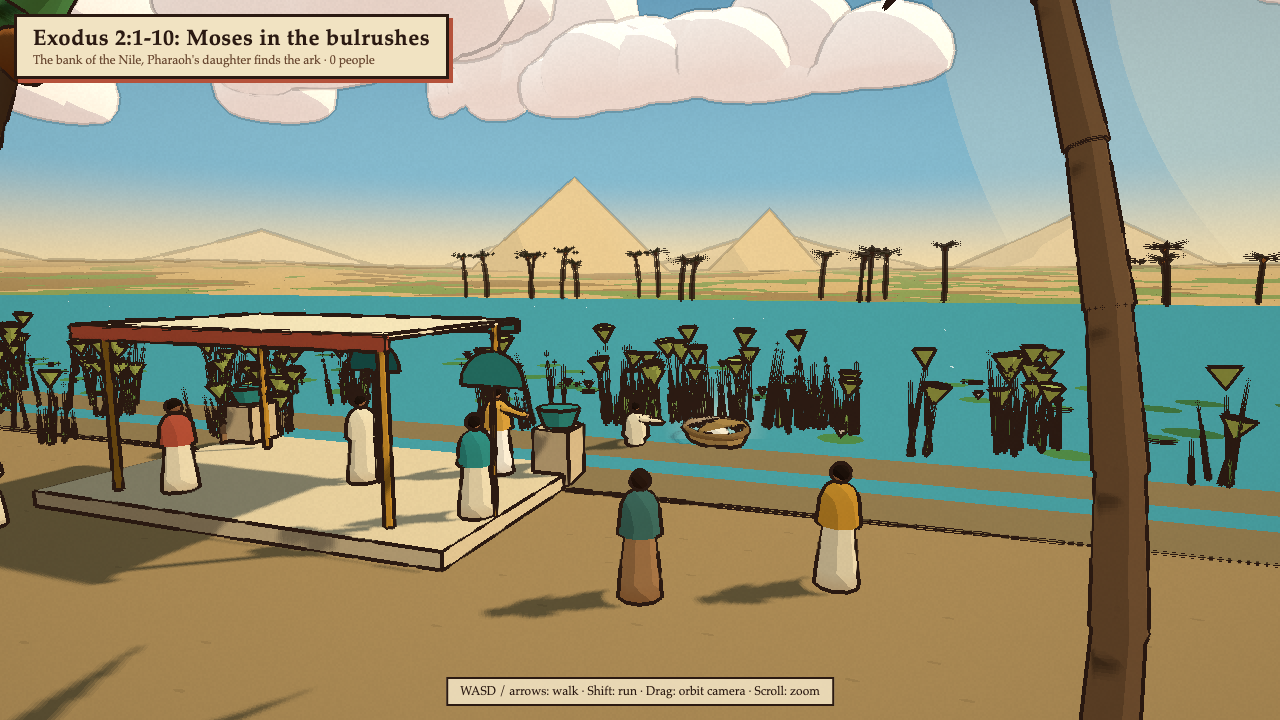
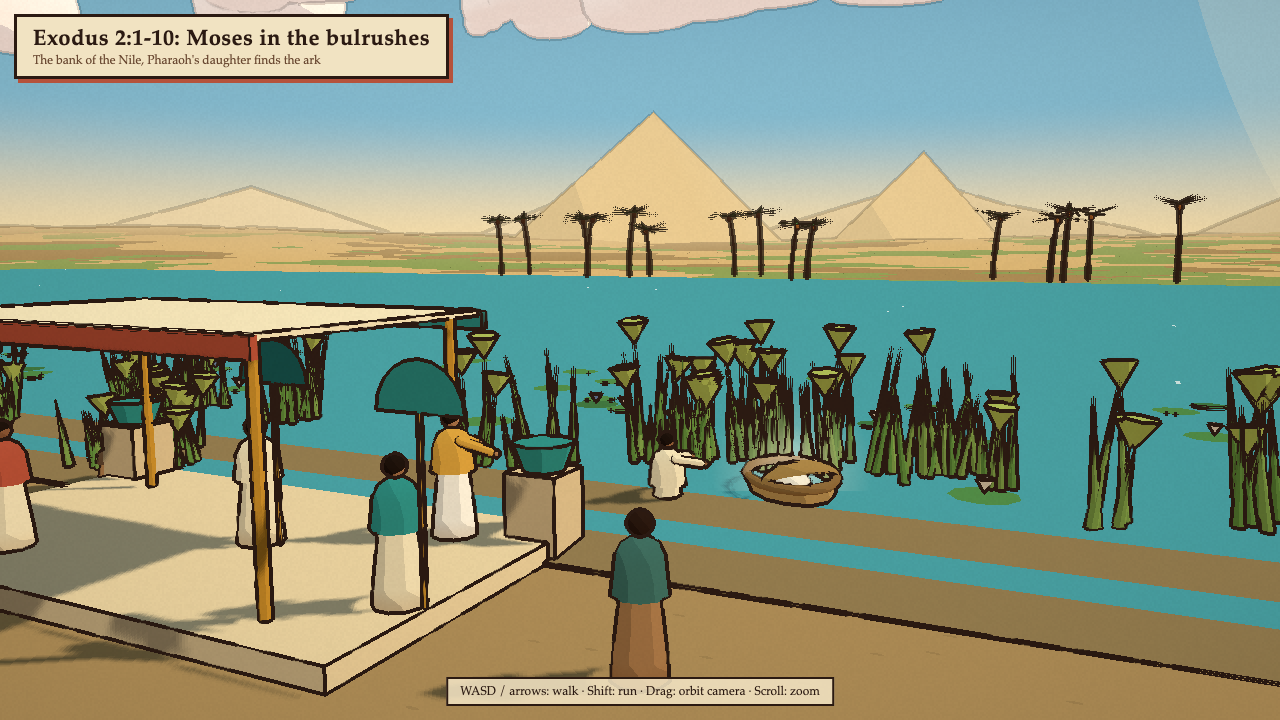
feat: polish toon scenes ot-13 to ot-18

diff --git a/styles/toon/scenes/ot-13.js b/styles/toon/scenes/ot-13.js
@@ -3,9 +3,9 @@
 import { Batch, DAY_STYLE, addSun, ball, box, camel, cyl, flock, frameAt, makeRng, person, rock, xf } from './lib/ot-13-kit.js';
 
 const PIT = [0, 0];
-const JOSEPH = [1.6, -1.4];
-const JUDAH = [-1.4, -3.4];
-const TRADER = [4.4, -4.2];
+const JOSEPH = [2.5, 1.5];
+const JUDAH = [0.4, -2.9];
+const TRADER = [5.6, -0.9];
 
 const BROTHER_ROBES = ['#a87b4f', '#8c5a3c', '#7a6a52', '#c8a97a', '#6f8a6a', '#9c6b4e', '#b5916a', '#5e4632', '#bfa27a', '#7d5a3c'];
 const BROTHER_MANTLES = ['#5e4632', '#c8912e', '#3e6e66', '#8c5a3c', '#a64b35', '#d9c7a3', '#6b5a4a', '#4f7f80', '#b5523b', '#7a6a52'];
@@ -27,7 +27,12 @@ function custom(ctx) {
   ctx.exclude({ kind: 'circle', x: PIT[0], z: PIT[1], r: 2.4 });
 
   // A rope drawn up over the rim to Joseph's hands.
-  b.add('#c9b07a', cyl(0.03, 0.03, 2.2, [0.8, py + 0.75, -0.7], [0.5, 0.85, 0.9], 4), { cast: false });
+  const ropeFrom = new THREE.Vector3(0.7, py + 0.2, 0.5);
+  const ropeTo = new THREE.Vector3(JOSEPH[0] + 0.25, ctx.terrainHeight(...JOSEPH) + 1.0, JOSEPH[1] - 0.15);
+  const rope = new THREE.CylinderGeometry(0.035, 0.035, ropeFrom.distanceTo(ropeTo), 4);
+  rope.applyQuaternion(new THREE.Quaternion().setFromUnitVectors(new THREE.Vector3(0, 1, 0), ropeTo.clone().sub(ropeFrom).normalize()));
+  rope.translate(...ropeFrom.clone().add(ropeTo).multiplyScalar(0.5).toArray());
+  b.add('#c9b07a', rope, { cast: false });
 
   // The coat of many colours, stripped and lying on the ground.
   const cx = -2.6, cz = 1.4, cy = ctx.terrainHeight(cx, cz);
@@ -37,7 +42,7 @@ function custom(ctx) {
   b.add('#2f8f8a', box(0.5, 0.05, 1.2, [1.0, 0.05, 0], [0, -0.4, 0]), { frame: frameAt(cx, cy, cz, 0.5), cast: false });
 
   // The twenty pieces of silver.
-  const sx = 3.2, sz = -3.1, sy = ctx.terrainHeight(sx, sz);
+  const sx = 4.3, sz = 0.4, sy = ctx.terrainHeight(sx, sz);
   b.add('#6b4a33', box(0.5, 0.35, 0.4, [sx, sy + 0.18, sz]));
   for (let i = 0; i < 9; i++) b.add('#e6e2d6', cyl(0.07, 0.07, 0.02, [sx + (rng() - 0.5) * 0.5, sy + 0.38 + i * 0.012, sz + (rng() - 0.5) * 0.3], [0, 0, 0], 8), { emissive: '#3a3a3a' });
 
@@ -51,14 +56,14 @@ function custom(ctx) {
 
   // The Ishmeelite merchants.
   person(ctx, { pos: TRADER, face: JUDAH, scale: 1.04, colors: { robe: '#2e3a5c', mantle: '#efe3c2', skin: '#8a5a3b', hair: '#efe3c2', sash: '#b5523b', arms: [0.3, 1.0] } });
-  person(ctx, { pos: [6.2, -2.6], face: JOSEPH, colors: { robe: '#efe3c2', mantle: '#2e3a5c', skin: '#7a4e33', hair: '#e6d8b8', sash: '#c8912e' } });
-  person(ctx, { pos: [5.6, -6.4], face: JOSEPH, colors: { robe: '#5a3a5c', mantle: '#d9c7a3', skin: '#8a5a3b', hair: '#d9c7a3', sash: '#2f8f8a' } });
+  person(ctx, { pos: [7.4, 1.0], face: JOSEPH, colors: { robe: '#efe3c2', mantle: '#2e3a5c', skin: '#7a4e33', hair: '#e6d8b8', sash: '#c8912e' } });
+  person(ctx, { pos: [8.6, -2.4], face: JOSEPH, colors: { robe: '#5a3a5c', mantle: '#d9c7a3', skin: '#8a5a3b', hair: '#d9c7a3', sash: '#2f8f8a' } });
 
   // The caravan of camels on the road to Egypt, with spicery, balm and myrrh.
   const road = (t) => [26 - t * 3.1, -16 + t * 1.5];
   for (let i = 0; i < 9; i++) {
     const [x, z] = road(i);
-    if (Math.hypot(x - TRADER[0], z - TRADER[1]) < 4) continue;
+    if (Math.hypot(x - TRADER[0], z - TRADER[1]) < 6) continue;
     camel(b, ctx, { pos: [x, z], rot: Math.atan2(-3.1, 1.5), color: ['#c49a62', '#b5895a', '#d1a873'][i % 3], couched: i === 3 || i === 4, load: ['#b5523b', '#2f8f8a', '#c8912e', '#6b2f4a'][i % 4] });
     if (i % 2 === 0) person(ctx, { pos: [x + 1.6, z + 0.6], face: road(i + 3), colors: { robe: ['#efe3c2', '#2e3a5c', '#5a3a5c'][i % 3], mantle: '#d9c7a3', skin: '#8a5a3b', hair: '#efe3c2', sash: '#b5523b' } });
   }
@@ -116,8 +121,9 @@ export default {
   custom,
   clouds: { layers: [{ count: 30, distance: [350, 800], height: [90, 180], size: [40, 80], color: '#fff6e4', shade: '#7a7a92' }] },
   player: {
-    start: [0.5, 9],
-    lookAt: [0, -2],
+    start: [1.6, 5.6],
+    lookAt: [5.8, -0.6],
+    fov: 40,
     colors: { robe: '#a87b4f', mantle: '#3e6e66', skin: '#a8724a', hair: '#2b1a12', sash: '#c8912e' },
   },
 };

diff --git a/styles/toon/scenes/ot-15.js b/styles/toon/scenes/ot-15.js
@@ -98,7 +98,7 @@ function custom(ctx) {
   // Pharaoh's daughter and her maidens walking by the river's side.
   person(ctx, { pos: PRINCESS, y: ly + 0.3, face: BASKET, scale: 1.04, colors: { robe: '#fbf7ee', mantle: '#d9a441', skin: '#b5825a', hair: '#1f140e', sash: '#2f8f8a', arms: [0.35, 1.2] } });
   person(ctx, { pos: MAID, y: WATER_Y - 0.6, face: BASKET, colors: { robe: '#efe3c2', mantle: '#efe3c2', skin: '#9c6a45', hair: '#1f140e', sash: '#b5523b', arms: [0.2, 1.4] } });
-  const maids = [[1.4, -5.6], [4.6, -4.6], [-1.5, -4.0], [10.5, -4.4], [-3.6, -2.0]];
+  const maids = [[1.4, -5.6], [4.6, -4.6], [-1.5, -4.0], [12.5, -1.0], [-3.6, -2.0]];
   maids.forEach((p, i) => person(ctx, { pos: p, face: i < 2 ? BASKET : PRINCESS, colors: { robe: '#efe3c2', mantle: ['#efe3c2', '#2f8f8a', '#b5523b', '#c8912e', '#efe3c2'][i], skin: ['#9c6a45', '#a87650', '#8a5a3b'][i % 3], hair: '#1f140e', sash: '#c8912e' } }));
   for (const [x, z] of [[1.4, -5.6], [4.6, -4.6]]) {
     b.add('#c8912e', cyl(0.03, 0.03, 2.2, [x + 0.35, ly + 1.4, z], [0, 0, 0], 5));
@@ -115,7 +115,7 @@ function custom(ctx) {
     if (Math.abs(x) < 10 && z < 18) continue;
     palm(b, ctx, { pos: [x, z], height: 7 + rng() * 4, lean: 0.1 + rng() * 0.25, dir: rng() * 6, seed: i + 30 });
   }
-  for (const s of [-1, 1]) palm(b, ctx, { pos: [s * 8 + 5, -1.5], height: 8.5, lean: 0.25, dir: s > 0 ? 2.5 : 0.6, seed: s + 60 });
+  for (const s of [-1, 1]) palm(b, ctx, { pos: [s * 10 + 4, 0.5], height: 8.5, lean: 0.25, dir: s > 0 ? 2.5 : 0.6, seed: s + 60 });
   const px = 0, pz = 40, py = ctx.terrainHeight(px, pz) - 0.2;
   for (const s of [-1, 1]) {
     b.add('#e3cfa6', xf(new THREE.CylinderGeometry(4.2, 5.5, 14, 4), { pos: [px + s * 9, py + 7, pz], rot: [0, Math.PI / 4, 0], scale: [1.4, 1, 0.6] }));
@@ -158,8 +158,9 @@ export default {
   clouds: { layers: [{ count: 24, distance: [400, 800], height: [110, 200], size: [40, 80], color: '#fff6e4', shade: '#8a8aa0' }] },
   light: { glows: [{ at: BASKET, lift: 0.6, size: 2.6, color: '#fff3d0', opacity: 0.35 }] },
   player: {
-    start: [8, -3.2],
-    lookAt: [5.5, -10.5],
+    start: [7.6, -4.6],
+    lookAt: [4.6, -11],
+    fov: 42,
     colors: { robe: '#a87b4f', mantle: '#3e6e66', skin: '#a8724a', hair: '#2b1a12', sash: '#c8912e' },
   },
 };

diff --git a/styles/toon/scenes/ot-16.js b/styles/toon/scenes/ot-16.js
@@ -3,7 +3,7 @@
 import { Batch, DAY_STYLE, ball, box, cyl, flames, flock, glow, makeRng, person, rock, xf } from './lib/ot-13-kit.js';
 
 const BUSH = [0, -9];
-const MOSES = [0.4, -4.6];
+const MOSES = [-2.6, -5.6];
 const PEAK = [10, -300];
 
 function custom(ctx) {
@@ -48,12 +48,12 @@ function custom(ctx) {
     fl.push({ pos: [BUSH[0] + Math.sin(a) * r, by + 0.6 + rng() * 0.9, BUSH[1] + Math.cos(a) * r], h: 0.6 + rng() * 1.3, w: 0.7 + rng() * 0.6, light: i === 0 });
   }
   fl.push({ pos: [BUSH[0], by + 1.1, BUSH[1]], h: 2.2, w: 1.6 });
-  flames(ctx, fl, { outer: '#ff8a2c', inner: '#ffe08a', light: { color: '#ffc870', intensity: 40, distance: 30 } });
-  glow(ctx, { pos: [BUSH[0], by + 1.6, BUSH[1]], size: 9, color: '#ffd890', opacity: 0.75, pulse: 0.06 });
-  glow(ctx, { pos: [BUSH[0], by + 1.8, BUSH[1]], size: 22, color: '#ffb35a', opacity: 0.3, pulse: 0.04 });
+  flames(ctx, fl, { outer: '#ff8a2c', inner: '#ffe08a', light: { color: '#ffc870', intensity: 22, distance: 24 } });
+  glow(ctx, { pos: [BUSH[0], by + 1.6, BUSH[1]], size: 6.5, color: '#ffd890', opacity: 0.55, pulse: 0.06 });
+  glow(ctx, { pos: [BUSH[0], by + 1.8, BUSH[1]], size: 15, color: '#ffb35a', opacity: 0.18, pulse: 0.04 });
 
   // Moses, his shoes put off, kneeling on holy ground with his staff laid down.
-  person(ctx, { pos: MOSES, face: BUSH, kneel: true, colors: { robe: '#a87b4f', mantle: '#5e4632', skin: '#a8724a', hair: '#3a2418', sash: '#c8912e', arms: [0.25, 1.1] } });
+  person(ctx, { pos: MOSES, face: BUSH, kneel: true, scale: 1.3, colors: { robe: '#8c5a3c', mantle: '#e3d6b8', skin: '#a8724a', hair: '#3a2418', sash: '#c8912e', arms: [0.25, 1.1] } });
   const my = ctx.terrainHeight(...MOSES);
   b.add('#6b4a33', cyl(0.045, 0.05, 2.3, [MOSES[0] + 1.1, my + 0.06, MOSES[1] + 0.5], [Math.PI / 2, 0.5, 0], 6));
   for (const s of [-1, 1]) {
@@ -103,8 +103,9 @@ export default {
   custom,
   clouds: { layers: [{ count: 30, distance: [350, 800], height: [80, 180], size: [40, 90], color: '#f6c8a0', shade: '#5a4a6a' }] },
   player: {
-    start: [1.8, 2],
-    lookAt: BUSH,
+    start: [1.8, -1.4],
+    lookAt: [-1.6, -8.6],
+    fov: 42,
     colors: { robe: '#8c5a3c', mantle: '#3e6e66', skin: '#a8724a', hair: '#2b1a12', sash: '#c8912e' },
   },
 };

diff --git a/styles/toon/scenes/ot-14.js b/styles/toon/scenes/ot-14.js
@@ -113,11 +113,11 @@ function custom(ctx) {
   }
 
   // Joseph in Egyptian linen, arms open to his brothers.
-  person(ctx, { pos: JOSEPH, face: BENJAMIN, scale: 1.06, colors: { robe: '#fbf7ee', mantle: '#d9a441', skin: '#b5825a', hair: '#2e4f8a', sash: '#c8912e', arms: [0.7, 0.9] } });
+  person(ctx, { pos: JOSEPH, face: BENJAMIN, scale: 1.12, colors: { robe: '#fbf7ee', mantle: '#d9a441', skin: '#b5825a', hair: '#2e4f8a', sash: '#c8912e', arms: [0.7, 0.9] } });
   person(ctx, { pos: BENJAMIN, face: JOSEPH, scale: 0.97, colors: { robe: '#d9c7a3', mantle: '#4f7f80', skin: '#b5825a', hair: '#3a2418', sash: '#c8912e', arms: [0.25, 0.8] } });
 
   // Ten brothers, stunned and troubled. Some fall back, some bow.
-  const spots = [[-2.6, -12.4], [2.4, -12.6], [-4.4, -11.2], [4.4, -11.0], [-2.2, -9.8], [1.8, -10.0], [-5.6, -9.0], [3.8, -8.6], [-3.8, -8.0], [5.8, -12.6]];
+  const spots = [[-2.6, -12.9], [2.6, -12.9], [-3.5, -14.6], [3.5, -14.6], [-3.1, -11.0], [3.1, -11.0], [-4.6, -12.6], [4.6, -12.6], [-5.3, -14.6], [5.3, -14.6]];
   spots.forEach((p, i) => person(ctx, {
     pos: p,
     face: [JOSEPH[0] + (rng() - 0.5) * 2, JOSEPH[1]],
@@ -166,8 +166,9 @@ export default {
     glows: [{ at: JOSEPH, lift: 1.4, size: 4, color: '#fff3d0', opacity: 0.25 }],
   },
   player: {
-    start: [0.5, -5],
-    lookAt: JOSEPH,
+    start: [0.9, -8.6],
+    lookAt: [-0.3, -15.5],
+    fov: 42,
     colors: { robe: '#a87b4f', mantle: '#3e6e66', skin: '#a8724a', hair: '#2b1a12', sash: '#c8912e' },
   },
 };

diff --git a/styles/toon/scenes/ot-18.js b/styles/toon/scenes/ot-18.js
@@ -6,7 +6,7 @@ import { Batch, DAY_STYLE, PALETTE, ball, box, cyl, flames, flock, glow, makeRng
 const HALF = 16;
 const WALL_H = 20;
 const PILLAR = [0, 62];
-const MOSES = [-3, -44];
+const MOSES = [-3.2, -43.2];
 
 function waterTexture(THREE) {
   const c = document.createElement('canvas');
@@ -129,7 +129,7 @@ function custom(ctx) {
   }
 
   // Moses at the head of the people, rod lifted over the sea.
-  person(ctx, { pos: MOSES, face: [8, 0], scale: 1.05, colors: { robe: '#a87b4f', mantle: '#5e4632', skin: '#a8724a', hair: '#e6d8b8', sash: '#c8912e', arms: [0.4, 2.3] } });
+  person(ctx, { pos: MOSES, face: [MOSES[0] + 1.5, MOSES[1] - 20], scale: 1.1, colors: { robe: '#8c5a3c', mantle: '#e3d6b8', skin: '#a8724a', hair: '#e6d8b8', sash: '#c8912e', arms: [0.4, 2.3] } });
   const my = ctx.terrainHeight(...MOSES);
   b.add('#6b4a33', cyl(0.045, 0.05, 2.4, [MOSES[0] + 0.15, my + 2.7, MOSES[1] - 0.25], [0.1, 0, -0.2], 6));
   ctx.exclude({ kind: 'circle', x: MOSES[0], z: MOSES[1], r: 3 });
@@ -178,8 +178,9 @@ export default {
     ],
   },
   player: {
-    start: [2, -46],
-    lookAt: [0, 40],
+    start: [1.6, -47.5],
+    lookAt: [-1.2, 40],
+    fov: 48,
     colors: { robe: '#a87b4f', mantle: '#3e6e66', skin: '#a8724a', hair: '#2b1a12', sash: '#c8912e' },
   },
 };

diff --git a/styles/toon/scenes/lib/ot-13-kit.js b/styles/toon/scenes/lib/ot-13-kit.js
@@ -512,7 +512,7 @@ export function reeds(b, ctx, { points, height = [1.6, 2.8], color = '#5f8a3e', 
       const h = height[0] + rng() * (height[1] - height[0]);
       const px = x + (rng() - 0.5) * 0.9, pz = z + (rng() - 0.5) * 0.9;
       const tilt = [(rng() - 0.5) * 0.35, 0, (rng() - 0.5) * 0.35];
-      b.add(rng() < 0.5 ? color : dark, xf(new THREE.ConeGeometry(0.05, h, 4).translate(0, h / 2, 0), { pos: [px, by - 0.1, pz], rot: tilt }), { cast: false });
+      b.add(rng() < 0.5 ? color : dark, xf(new THREE.ConeGeometry(0.11, h, 5).translate(0, h / 2, 0), { pos: [px, by - 0.1, pz], rot: tilt }), { cast: false });
       if (rng() < papyrus) b.add(head, xf(new THREE.ConeGeometry(0.28, 0.45, 6).rotateX(Math.PI).translate(0, h + 0.15, 0), { pos: [px, by - 0.1, pz], rot: tilt }), { cast: false });
     }
   }

diff --git a/styles/toon/scenes/ot-17.js b/styles/toon/scenes/ot-17.js
@@ -2,7 +2,7 @@
 // x is east, z is south. A street runs north; the cutaway house on the west side shows a family at the meal.
 import { Batch, DAY_STYLE, ball, box, cyl, frameAt, glow, goat, makeRng, moon, palm, person, stars, xf } from './lib/ot-13-kit.js';
 
-const BLOOD = '#8a1c1c';
+const BLOOD = '#b02424';
 const MUD = ['#b08a5e', '#a07a50', '#bf9a6a', '#a8845a'];
 const OPEN = { x: -8, z: -4, w: 7, d: 8 };
 
@@ -135,8 +135,9 @@ export default {
   objects: [],
   custom,
   player: {
-    start: [-2.2, 5.5],
-    lookAt: [-7.5, -4],
+    start: [-3.4, 2.6],
+    lookAt: [-8.2, -4.4],
+    fov: 44,
     colors: { robe: '#7a6a52', mantle: '#3e6e66', skin: '#a8724a', hair: '#2b1a12', sash: '#c8912e' },
   },
 };
